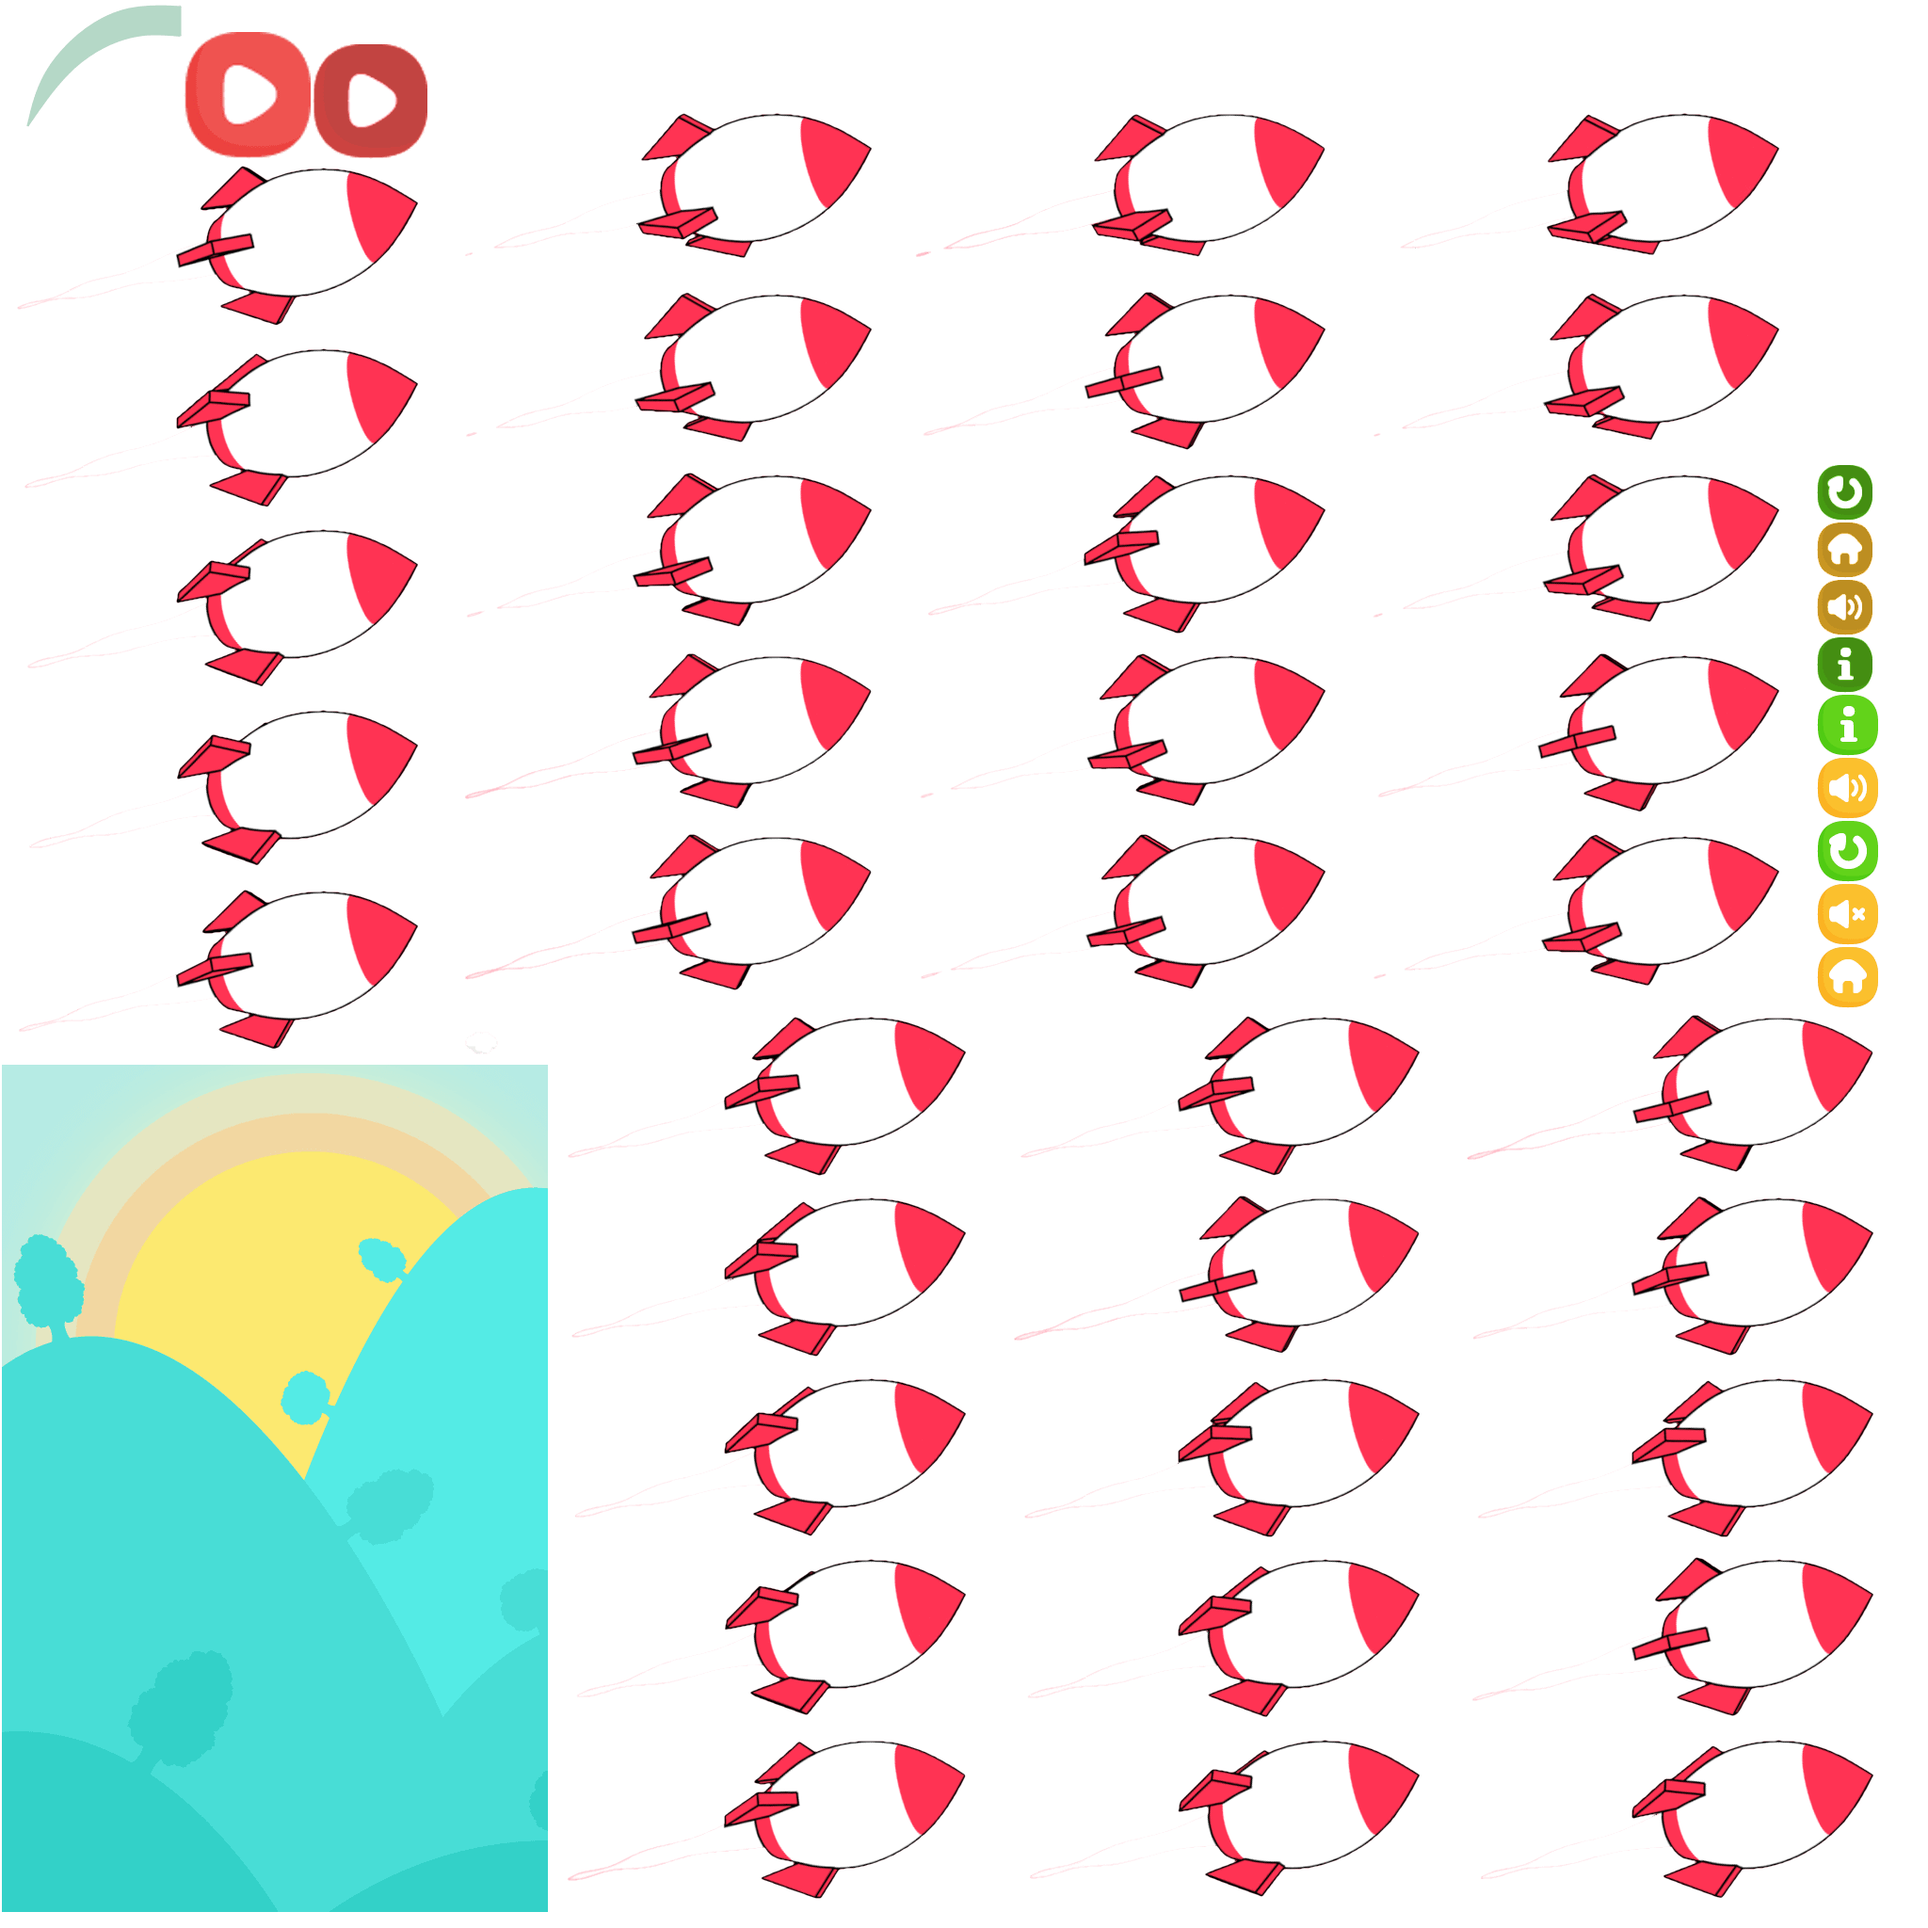
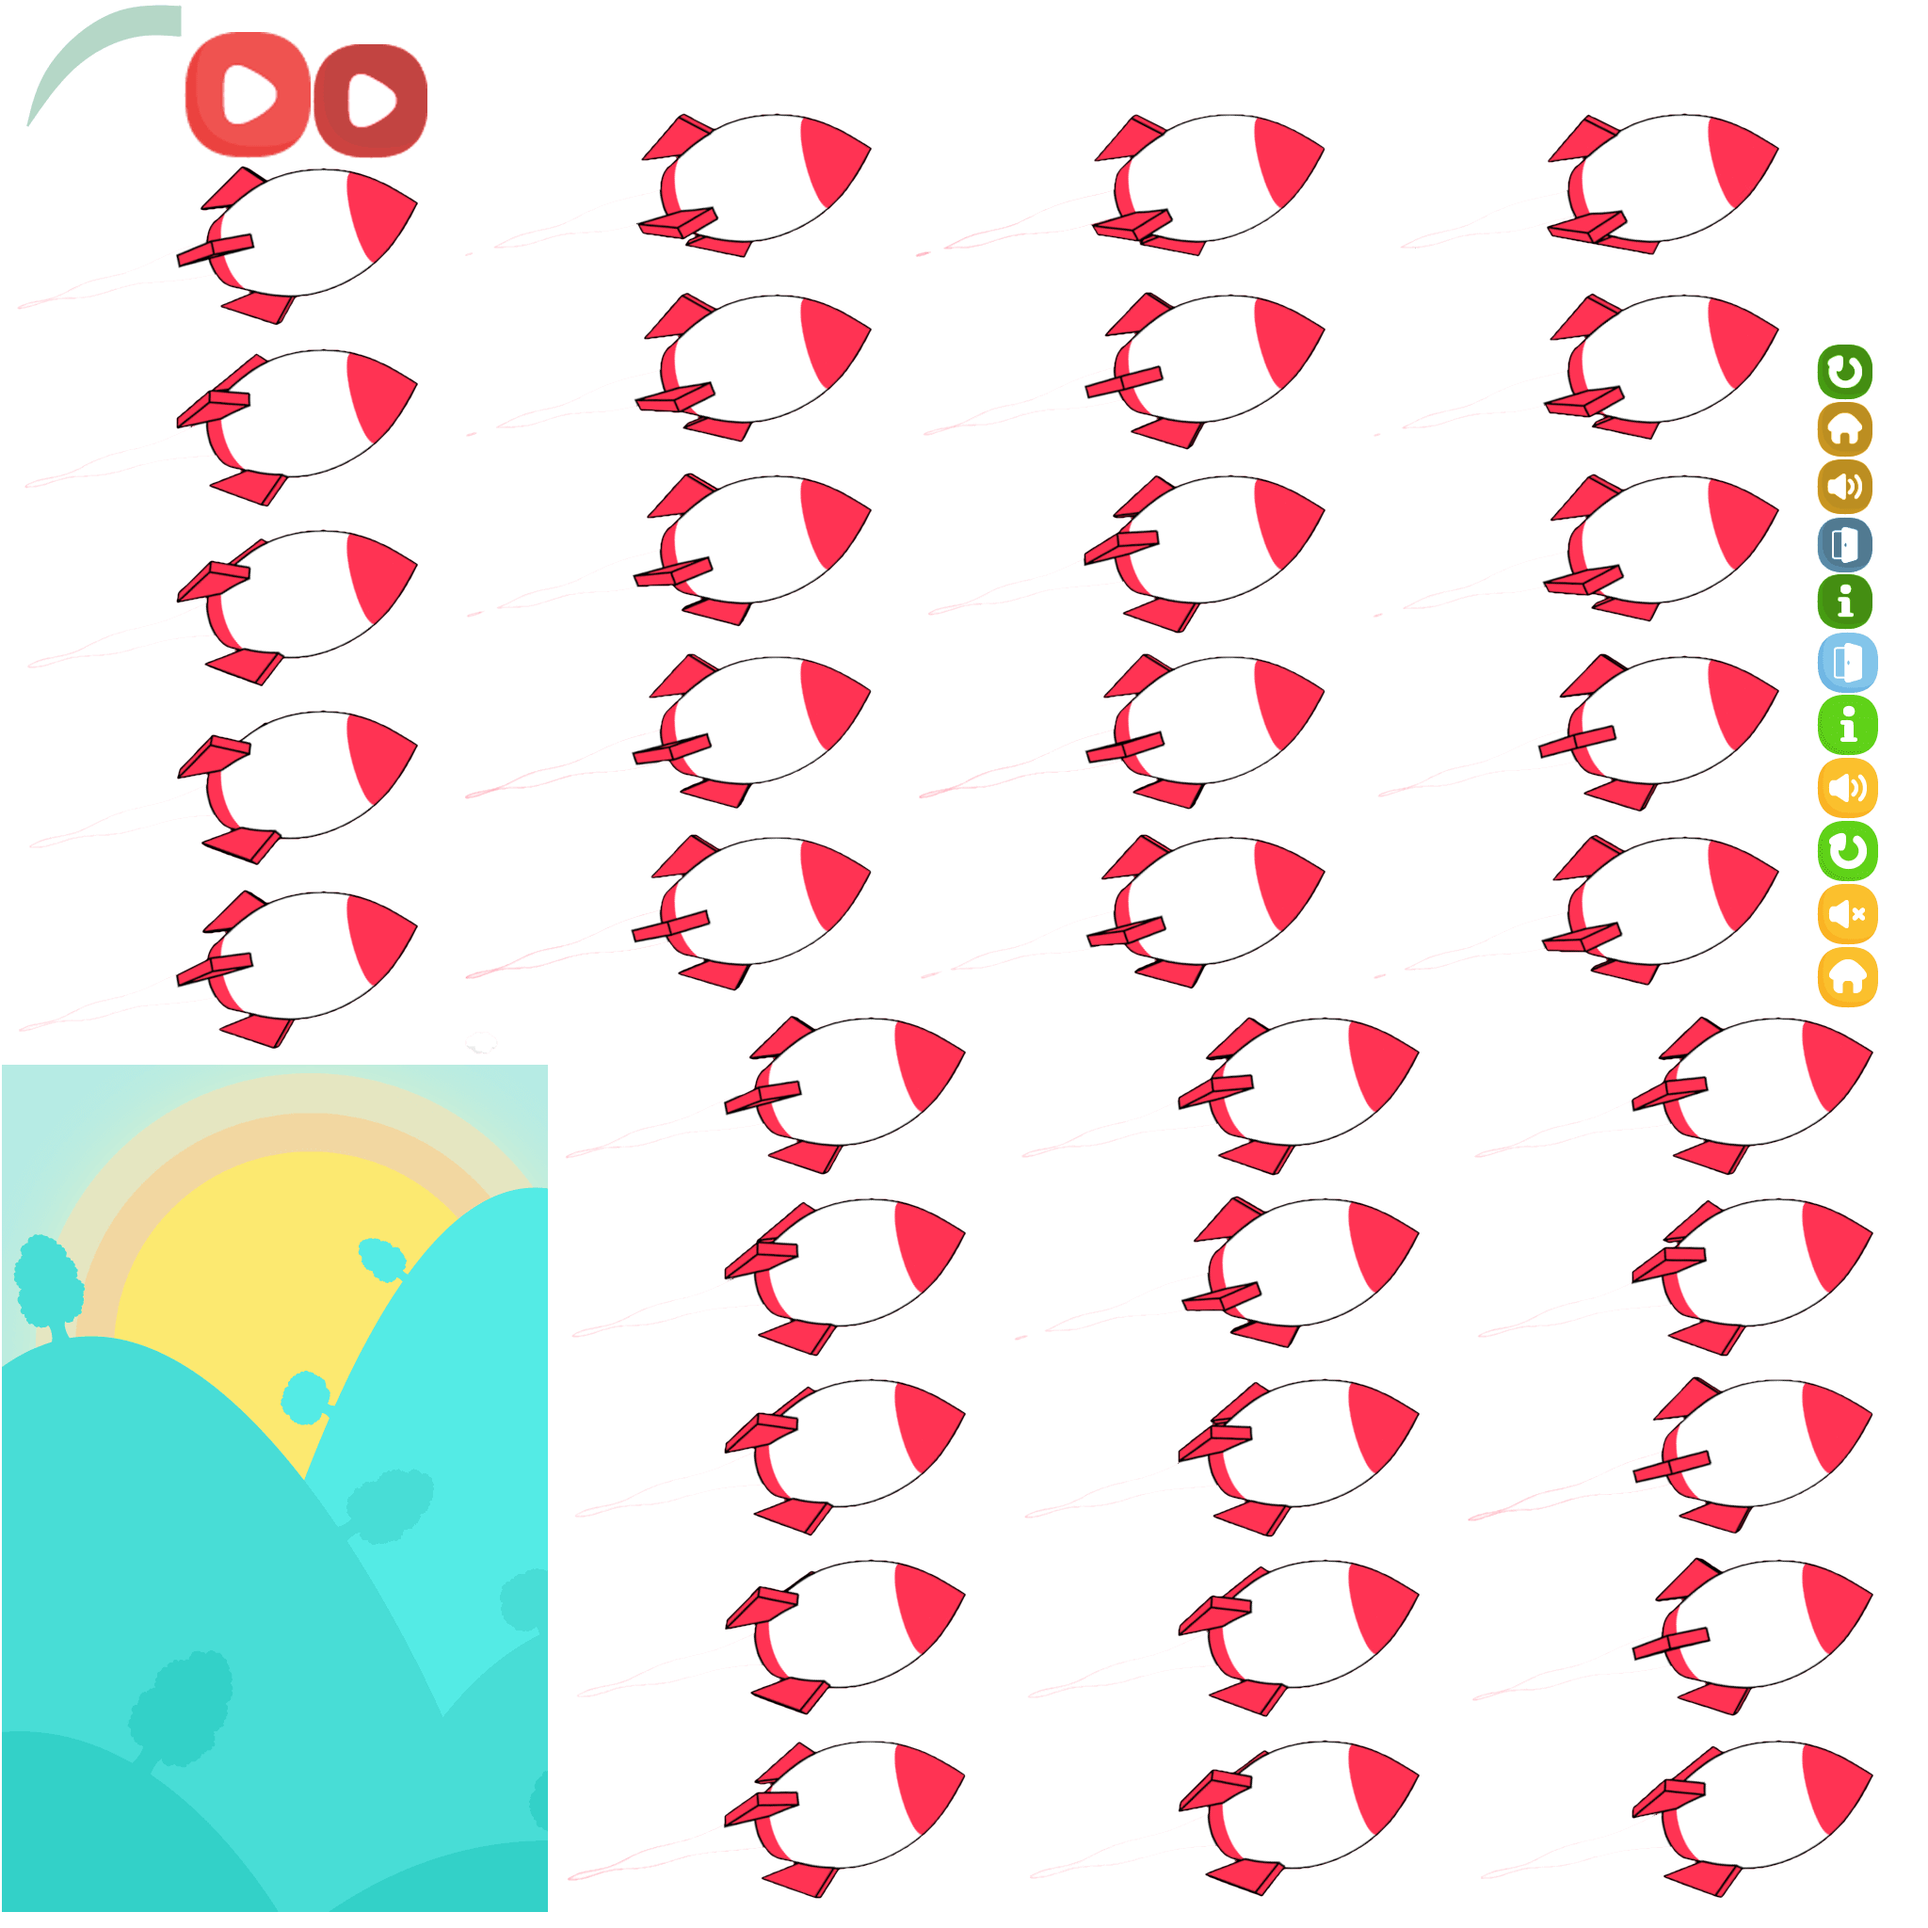
No comments

diff --git a/core/src/uy/com/agm/gamefour/screens/gui/MainMenuScreen.java b/core/src/uy/com/agm/gamefour/screens/gui/MainMenuScreen.java
@@ -1,5 +1,6 @@
 package uy.com.agm.gamefour.screens.gui;
 
+import com.badlogic.gdx.Gdx;
 import com.badlogic.gdx.graphics.Color;
 import com.badlogic.gdx.scenes.scene2d.ui.Image;
 import com.badlogic.gdx.scenes.scene2d.ui.ImageButton;
@@ -27,15 +28,17 @@ public class MainMenuScreen extends GUIAbstractScreen {
     private static final String TAG = MainMenuScreen.class.getName();
 
     private static final float PAD = 30.0f;
-    private static final float BUTTON_WIDTH = 85.0f;
+    private static final int BUTTON_COLUMNS = 3;
+    private static final float BUTTON_SIZE = 85.0f;
     private static final float PLAY_BUTTON_SIZE = 155.0f;
     private static final float JUMPER_SCALE = 1.3f;
     private static final float ROCKET_BACKGROUND_SCALE = 0.2f;
     private static final float ROCKET_BG_OFFSET_X = 200.0f;
+    private static final float ROCKET_BG_OFFSET_Y = 50.0f;
     private static final float CLOUD_OFFSET_X = 40.0f;
     private static final float CLOUD_OFFSET_Y = 20.0f;
-    private static final float JUMPER_OFFSET_Y = 150.0f;
-    private static final float ROCKET_FG_OFFSET_Y = 110;
+    private static final float JUMPER_OFFSET_Y = 200.0f;
+    private static final float ROCKET_FG_OFFSET_Y = 60;
 
     private Assets assets;
     private AssetGUI assetGUI;
@@ -138,6 +141,9 @@ public class MainMenuScreen extends GUIAbstractScreen {
         ImageButton info = new ImageButton(new TextureRegionDrawable(assetGUI.getInfo()),
                 new TextureRegionDrawable(assetGUI.getInfoPressed()));
 
+        ImageButton exit = new ImageButton(new TextureRegionDrawable(assetGUI.getExit()),
+                new TextureRegionDrawable(assetGUI.getExitPressed()));
+
         // Events
         audio.addListener(ListenerHelper.runnableListener(new Runnable() {
             @Override
@@ -148,14 +154,20 @@ public class MainMenuScreen extends GUIAbstractScreen {
         }));
         play.addListener(ListenerHelper.screenNavigationListener(ScreenEnum.PLAY_GAME, ScreenTransitionEnum.COLOR_FADE_WHITE));
         info.addListener(ListenerHelper.screenNavigationListener(ScreenEnum.CREDITS, ScreenTransitionEnum.SLICE_UP_DOWN_10));
+        exit.addListener(ListenerHelper.runnableListener(new Runnable() {
+            @Override
+            public void run() {
+                Gdx.app.exit();
+            }
+        }));
 
         Table table = new Table();
         table.setDebug(DebugConstants.DEBUG_LINES);
         table.bottom();
-        table.add(audio).width(BUTTON_WIDTH);
+        table.add(audio).width(BUTTON_SIZE);
         table.add(play).size(PLAY_BUTTON_SIZE);
-        table.add(info).width(BUTTON_WIDTH);
-        table.padBottom(PAD);
+        table.add(info).width(BUTTON_SIZE).row();
+        table.add(exit).colspan(BUTTON_COLUMNS).size(BUTTON_SIZE);
         return table;
     }
 
@@ -172,7 +184,7 @@ public class MainMenuScreen extends GUIAbstractScreen {
 
         // Place a distant rocket
         rocketBackground.setX((w - rocketBackground.getWidth()) / 2 - ROCKET_BG_OFFSET_X);
-        rocketBackground.setY((h - rocketBackground.getHeight()) / 2);
+        rocketBackground.setY((h - rocketBackground.getHeight()) / 2 + ROCKET_BG_OFFSET_Y);
 
         // Place a little cloud on the rocket
         littleCloud.setX(rocketBackground.getX() + CLOUD_OFFSET_X);

diff --git a/core/src/uy/com/agm/gamefour/assets/gui/AssetGUI.java b/core/src/uy/com/agm/gamefour/assets/gui/AssetGUI.java
@@ -18,6 +18,8 @@ public class AssetGUI {
     private TextureRegion playPressed;
     private TextureRegion info;
     private TextureRegion infoPressed;
+    private TextureRegion exit;
+    private TextureRegion exitPressed;
     private TextureRegion reload;
     private TextureRegion reloadPressed;
     private TextureRegion home;
@@ -35,6 +37,8 @@ public class AssetGUI {
         playPressed = atlasGUI.findRegion("playPressed");
         info = atlasGUI.findRegion("info");
         infoPressed = atlasGUI.findRegion("infoPressed");
+        exit = atlasGUI.findRegion("exit");
+        exitPressed = atlasGUI.findRegion("exitPressed");
         reload = atlasGUI.findRegion("reload");
         reloadPressed = atlasGUI.findRegion("reloadPressed");
         home = atlasGUI.findRegion("home");
@@ -71,6 +75,14 @@ public class AssetGUI {
 
     public TextureRegion getInfoPressed() {
         return infoPressed;
+    }
+
+    public TextureRegion getExit() {
+        return exit;
+    }
+
+    public TextureRegion getExitPressed() {
+        return exitPressed;
     }
 
     public TextureRegion getReload() {

diff --git a/core/src/uy/com/agm/gamefour/game/DebugConstants.java b/core/src/uy/com/agm/gamefour/game/DebugConstants.java
@@ -12,7 +12,7 @@ public class DebugConstants {
     public static final boolean DEBUG_MODE = true && TURN_ON_DEBUG;
 
     // Debug lines around sprites and scene2d tables
-    public static final boolean DEBUG_LINES = false && TURN_ON_DEBUG;
+    public static final boolean DEBUG_LINES = true && TURN_ON_DEBUG;
 
     // Debug lines around box2d bodies
     public static final boolean DEBUG_BOX2D = false && TURN_ON_DEBUG;
